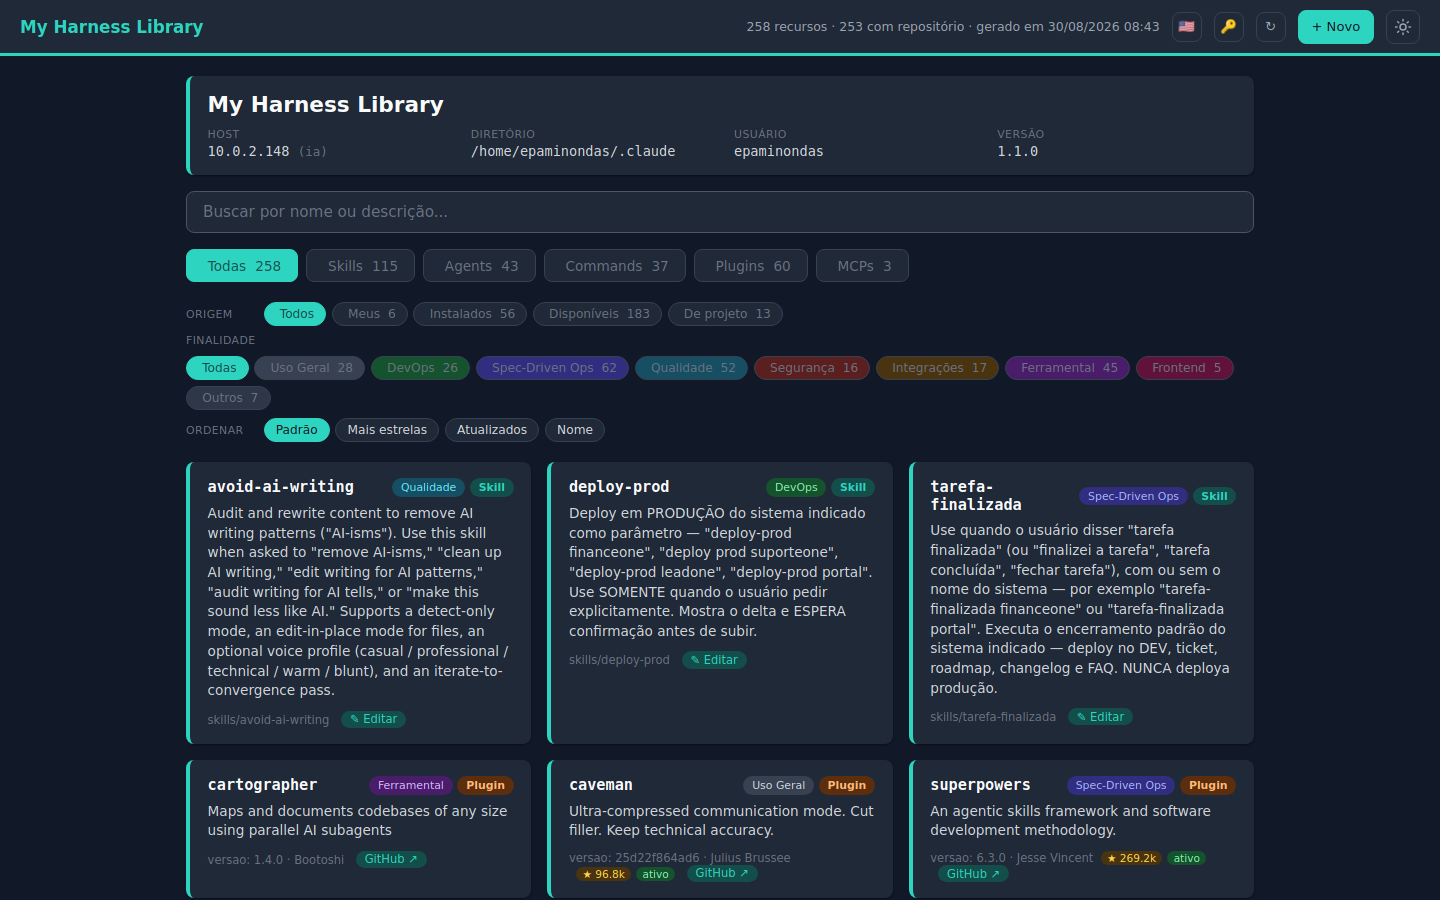
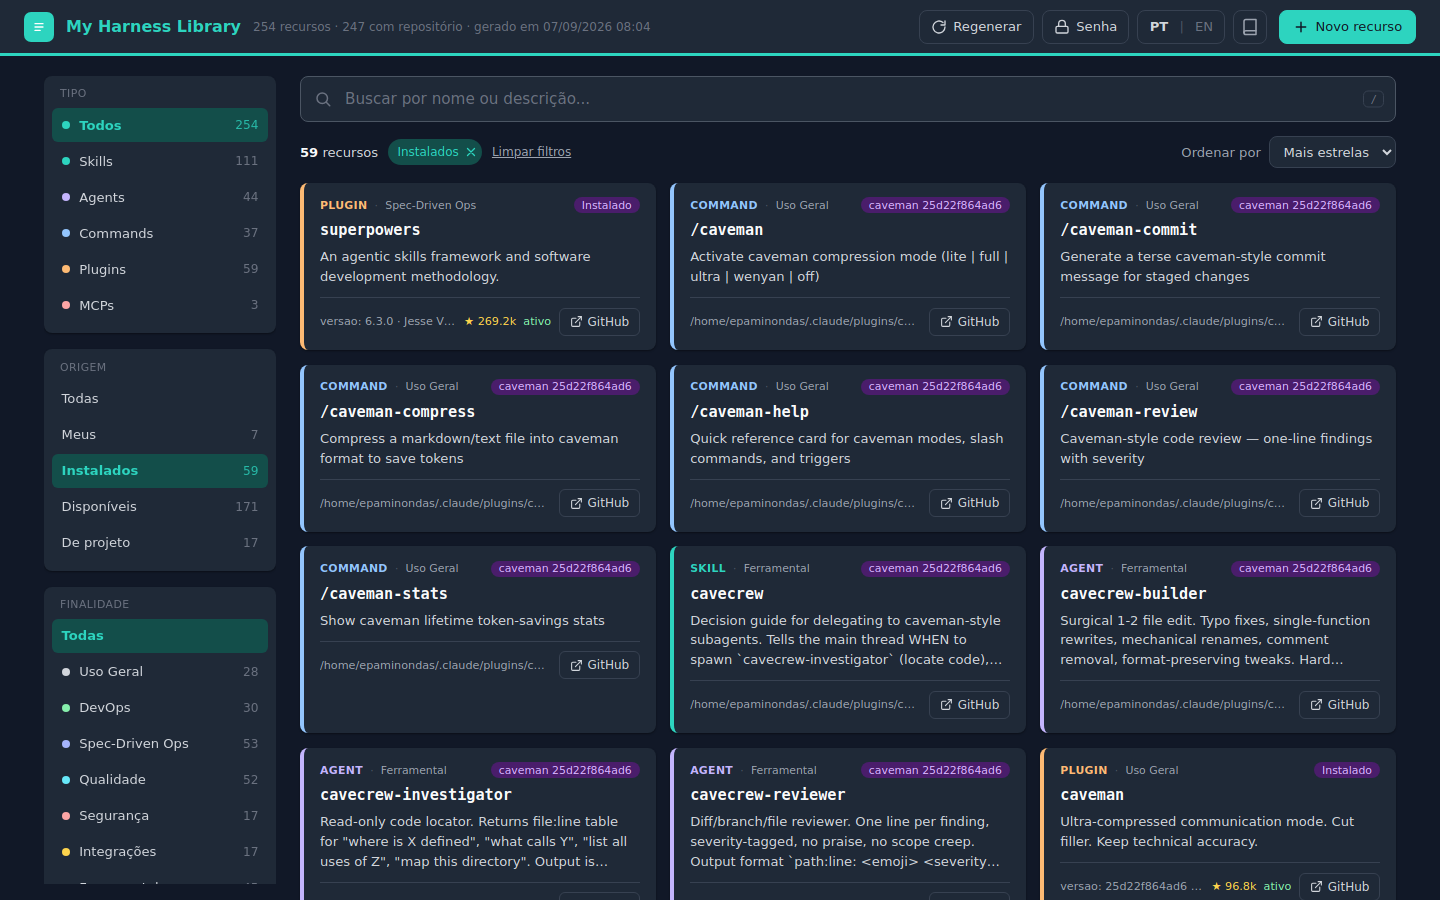
chore: release 1.2.0
- cache-busting ?v= em styles.css e app.js: index novo nunca casa com asset velho em cache
- app.js tolera HTML antigo (elementos ausentes nao quebram apply())
- screenshots novos (light, dark, sepia) e README/CODEBASE_MAP alinhados ao redesign

Claude-Session: https://claude.ai/code/session_011wuKb4F8tpC6DitgN7VA9V

diff --git a/src/inventory.py b/src/inventory.py
@@ -1133,6 +1133,9 @@ def build_site(items: list) -> None:
     counts = {t: sum(1 for i in items if i["type"] == t) for t in TYPE_LABEL}
     with_repo = sum(1 for i in items if i.get("repo"))
     generated = datetime.now().strftime("%d/%m/%Y %H:%M")
+    # Marca de cache dos assets: muda a cada geracao, entao o navegador nunca
+    # combina um index.html novo com styles/app.js velhos (ou o contrario).
+    asset_v = datetime.now().strftime("%Y%m%d%H%M%S")
 
     # Procedencia do inventario: onde rodou, o que varreu e de quem e o ambiente
     versao   = local_version()
@@ -1296,7 +1299,7 @@ def build_site(items: list) -> None:
       }} catch (e) {{}}   /* localStorage bloqueado: cai no prefers-color-scheme */
     }})();
   </script>
-  <link rel="stylesheet" href="styles.css">
+  <link rel="stylesheet" href="styles.css?v={asset_v}">
 </head>
 <body>
   <header class="topbar">
@@ -1565,7 +1568,7 @@ def build_site(items: list) -> None:
     </div>
   </div>
 
-  <script src="app.js"></script>
+  <script src="app.js?v={asset_v}"></script>
 </body>
 </html>
 """
@@ -2399,7 +2402,8 @@ function apply() {
     if (show) visible++;
   });
   empty.hidden = visible > 0;
-  document.getElementById('count').textContent = visible;
+  const countEl = document.getElementById('count');
+  if (countEl) countEl.textContent = visible;
   renderActiveFilters();
 }
 
@@ -2419,6 +2423,7 @@ const GROUPS = [
 ];
 
 function renderActiveFilters() {
+  if (!activeBox || !clearBtn) return;
   activeBox.innerHTML = '';
   let n = 0;
   GROUPS.forEach(g => {
@@ -2439,7 +2444,7 @@ function renderActiveFilters() {
   clearBtn.hidden = n === 0 && !search.value;
 }
 
-clearBtn.addEventListener('click', () => {
+if (clearBtn) clearBtn.addEventListener('click', () => {
   search.value = '';
   GROUPS.forEach(g => {
     const all = document.querySelector(g.sel + '[data-' + g.attr + '="all"]');
@@ -2594,8 +2599,9 @@ function applyLang() {
   });
   document.documentElement.lang = LANG === 'en' ? 'en' : 'pt-BR';
   // "PT | EN": o idioma atual em negrito, o outro apagado.
-  document.getElementById('lang-cur').textContent = LANG === 'en' ? 'EN' : 'PT';
-  document.getElementById('lang-alt').textContent = LANG === 'en' ? 'PT' : 'EN';
+  const cur = document.getElementById('lang-cur'), alt = document.getElementById('lang-alt');
+  if (cur) cur.textContent = LANG === 'en' ? 'EN' : 'PT';
+  if (alt) alt.textContent = LANG === 'en' ? 'PT' : 'EN';
   renderActiveFilters();   // os pills usam o rotulo traduzido
 }
 
@@ -2667,7 +2673,8 @@ function sortBy(modo) {
   lista.forEach(c => grid.appendChild(c));
 }
 
-document.getElementById('sort').addEventListener('change', ev => sortBy(ev.target.value));
+const sortSel = document.getElementById('sort');
+if (sortSel) sortSel.addEventListener('change', ev => sortBy(ev.target.value));
 
 wireChips('catf',  v => { activeCat   = v; });
 

diff --git a/README.md b/README.md
@@ -123,11 +123,11 @@ failure never breaks a build; it keeps the cache.
 
 ### Stays current
 
-The page regenerates on its own when the harness changes: install or remove a plugin, add a marketplace, edit a skill, agent or command, register an MCP server: within a minute the page reflects it. A daily cron regenerates it anyway, and the `↻` button in the header regenerates on demand.
+The page regenerates on its own when the harness changes: install or remove a plugin, add a marketplace, edit a skill, agent or command, register an MCP server: within a minute the page reflects it. A daily cron regenerates it anyway, and the **Regenerate** button in the header regenerates on demand.
 
 ### Bilingual, themed, keyboard-friendly
 
-English and Portuguese, switched by the flag in the header, no reload. Light and dark themes following your OS by default. Both choices persist in `localStorage`, independently.
+English and Portuguese, switched by the **PT | EN** button in the header, no reload. Three themes: light, dark and sepia. The theme button cycles through them; without a choice the page follows your OS. Both choices persist in `localStorage`, independently. Press `/` to jump to the search box.
 
 ---
 
@@ -135,14 +135,21 @@ English and Portuguese, switched by the flag in the header, no reload. Light and
 
 <picture>
   <source media="(prefers-color-scheme: dark)" srcset="docs/screenshot-dark.png">
-  <img alt="My Harness Library: 248 resources, filtered by Installed, with type tabs, source and purpose filters, and resource cards" src="docs/screenshot-light.png">
+  <img alt="My Harness Library: 254 resources, filtered by Installed and sorted by most stars, with a sidebar of type, source and purpose filters, and resource cards" src="docs/screenshot-light.png">
 </picture>
 
-*Filtered to **Installed 52** and sorted by **Most stars**: every card shown is
+*Filtered to **Installed 59** and sorted by **Most stars**: every card shown is
 something Claude Code actually loads, and the plugin card carries its
-repository's health. The other 183 sit in a marketplace catalogue.*
+repository's health. The other 195 sit in a marketplace catalogue.*
 
-The header carries, left to right: the title, the resource count and generation time, then 🇺🇸/🇧🇷 (language), 🔑 (change password), ↻ (regenerate), ＋ New, and the theme toggle.
+The sidebar holds the three filters (type, source, purpose), each with a count and the colour the cards use; the machine, directory and version sit at its foot. Above the cards, a result bar shows how many match, one pill per active filter (click to drop it), **Clear filters**, and the sort order. Each card's left border is coloured by type; **Edit** and **GitHub** are buttons on its foot.
+
+The header carries, left to right: the title, the resource count and generation time, then **Regenerate**, **Password**, **PT | EN**, the theme button (light → dark → sepia) and **New resource**.
+
+<details>
+<summary>Sepia theme</summary>
+<img alt="The same page in the sepia theme" src="docs/screenshot-sepia.png">
+</details>
 
 Below it, a provenance card shows which host, which directory, which user and which version this inventory came from, so a page shared between machines is never ambiguous, and you can tell at a glance whether it was built by an old install.
 
@@ -236,7 +243,7 @@ That is the literal initial password. It is deliberately weak and deliberately m
 **Change it before doing anything else:**
 
 1. open the page
-2. click 🔑 in the header
+2. click **Password** in the header
 3. current password: `change-me-now`
 4. new password, twice, minimum 8 characters
 5. click **Change**
@@ -287,7 +294,7 @@ The one-minute watcher compares a short list of paths against the modification t
 
 Because `status.json` is rewritten after every run, a failing generation cannot loop: it runs once, records the failure, and waits for the next change. `~/.claude.json` also changes for reasons unrelated to MCPs (Claude Code keeps UI state there), so an occasional extra run is expected; each costs about a second. Remove that line from `WATCHED` in `regenerate.sh` if you would rather not have it.
 
-Resources scanned from projects (`/opt/*/.claude`) are **not** watched; they are picked up by the daily run or the `↻` button.
+Resources scanned from projects (`/opt/*/.claude`) are **not** watched; they are picked up by the daily run or the **Regenerate** button.
 
 ### Why the Regenerate button takes up to 60 seconds
 
@@ -419,7 +426,7 @@ Neither form touches your skills, agents or commands. Without `--purge`, your pa
 The service is down or the nginx route is missing. Run `bash setup.sh --check`, then `systemctl status harness-library` and `journalctl -u harness-library -n 50`.
 
 **The page shows old content**
-It is a static file, refreshed by the one-minute watcher when the harness changes. Wait a minute, click ↻, or run `regenerate.sh` directly. If nothing changes, check the one-minute cron (`crontab -l`) and its log (`~/logs/harness-library.log`): a run triggered by a change prints `harness changed — regenerating`.
+It is a static file, refreshed by the one-minute watcher when the harness changes. Wait a minute, click **Regenerate**, or run `regenerate.sh` directly. If nothing changes, check the one-minute cron (`crontab -l`) and its log (`~/logs/harness-library.log`): a run triggered by a change prints `harness changed — regenerating`.
 
 **A plugin you installed shows as `Available`**
 The scan trusts `~/.claude/plugins/installed_plugins.json`. If a plugin is installed but its entry is missing or points at a path that no longer exists, its resources fall back to the catalogue. The watcher regenerates within a minute of Claude Code finishing the installation; if the page still says `Available`, check `installed_plugins.json` by hand.
@@ -445,7 +452,7 @@ my-Harness-Library/
 ├── LICENSE
 ├── docs/
 │   ├── CODEBASE_MAP.md              architecture, data flows, gotchas, navigation guide
-│   └── screenshot-{light,dark}.png
+│   └── screenshot-{light,dark,sepia}.png
 └── src/
     ├── inventory.py                 scanner and static-site generator
     ├── api.py                       read/write backend (the only dynamic endpoint)

diff --git a/docs/CODEBASE_MAP.md b/docs/CODEBASE_MAP.md
@@ -83,7 +83,7 @@ my-Harness-Library/
 │   └── harness-library.service.in  systemd unit template (@USER@ @HOME@ @PREFIX@)
 ├── docs/
 │   ├── CODEBASE_MAP.md             this file
-│   └── screenshot-{light,dark}.png
+│   └── screenshot-{light,dark,sepia}.png
 └── .github/workflows/ci.yml        lint + backend smoke test + generator run + secret scan
 ```
 
